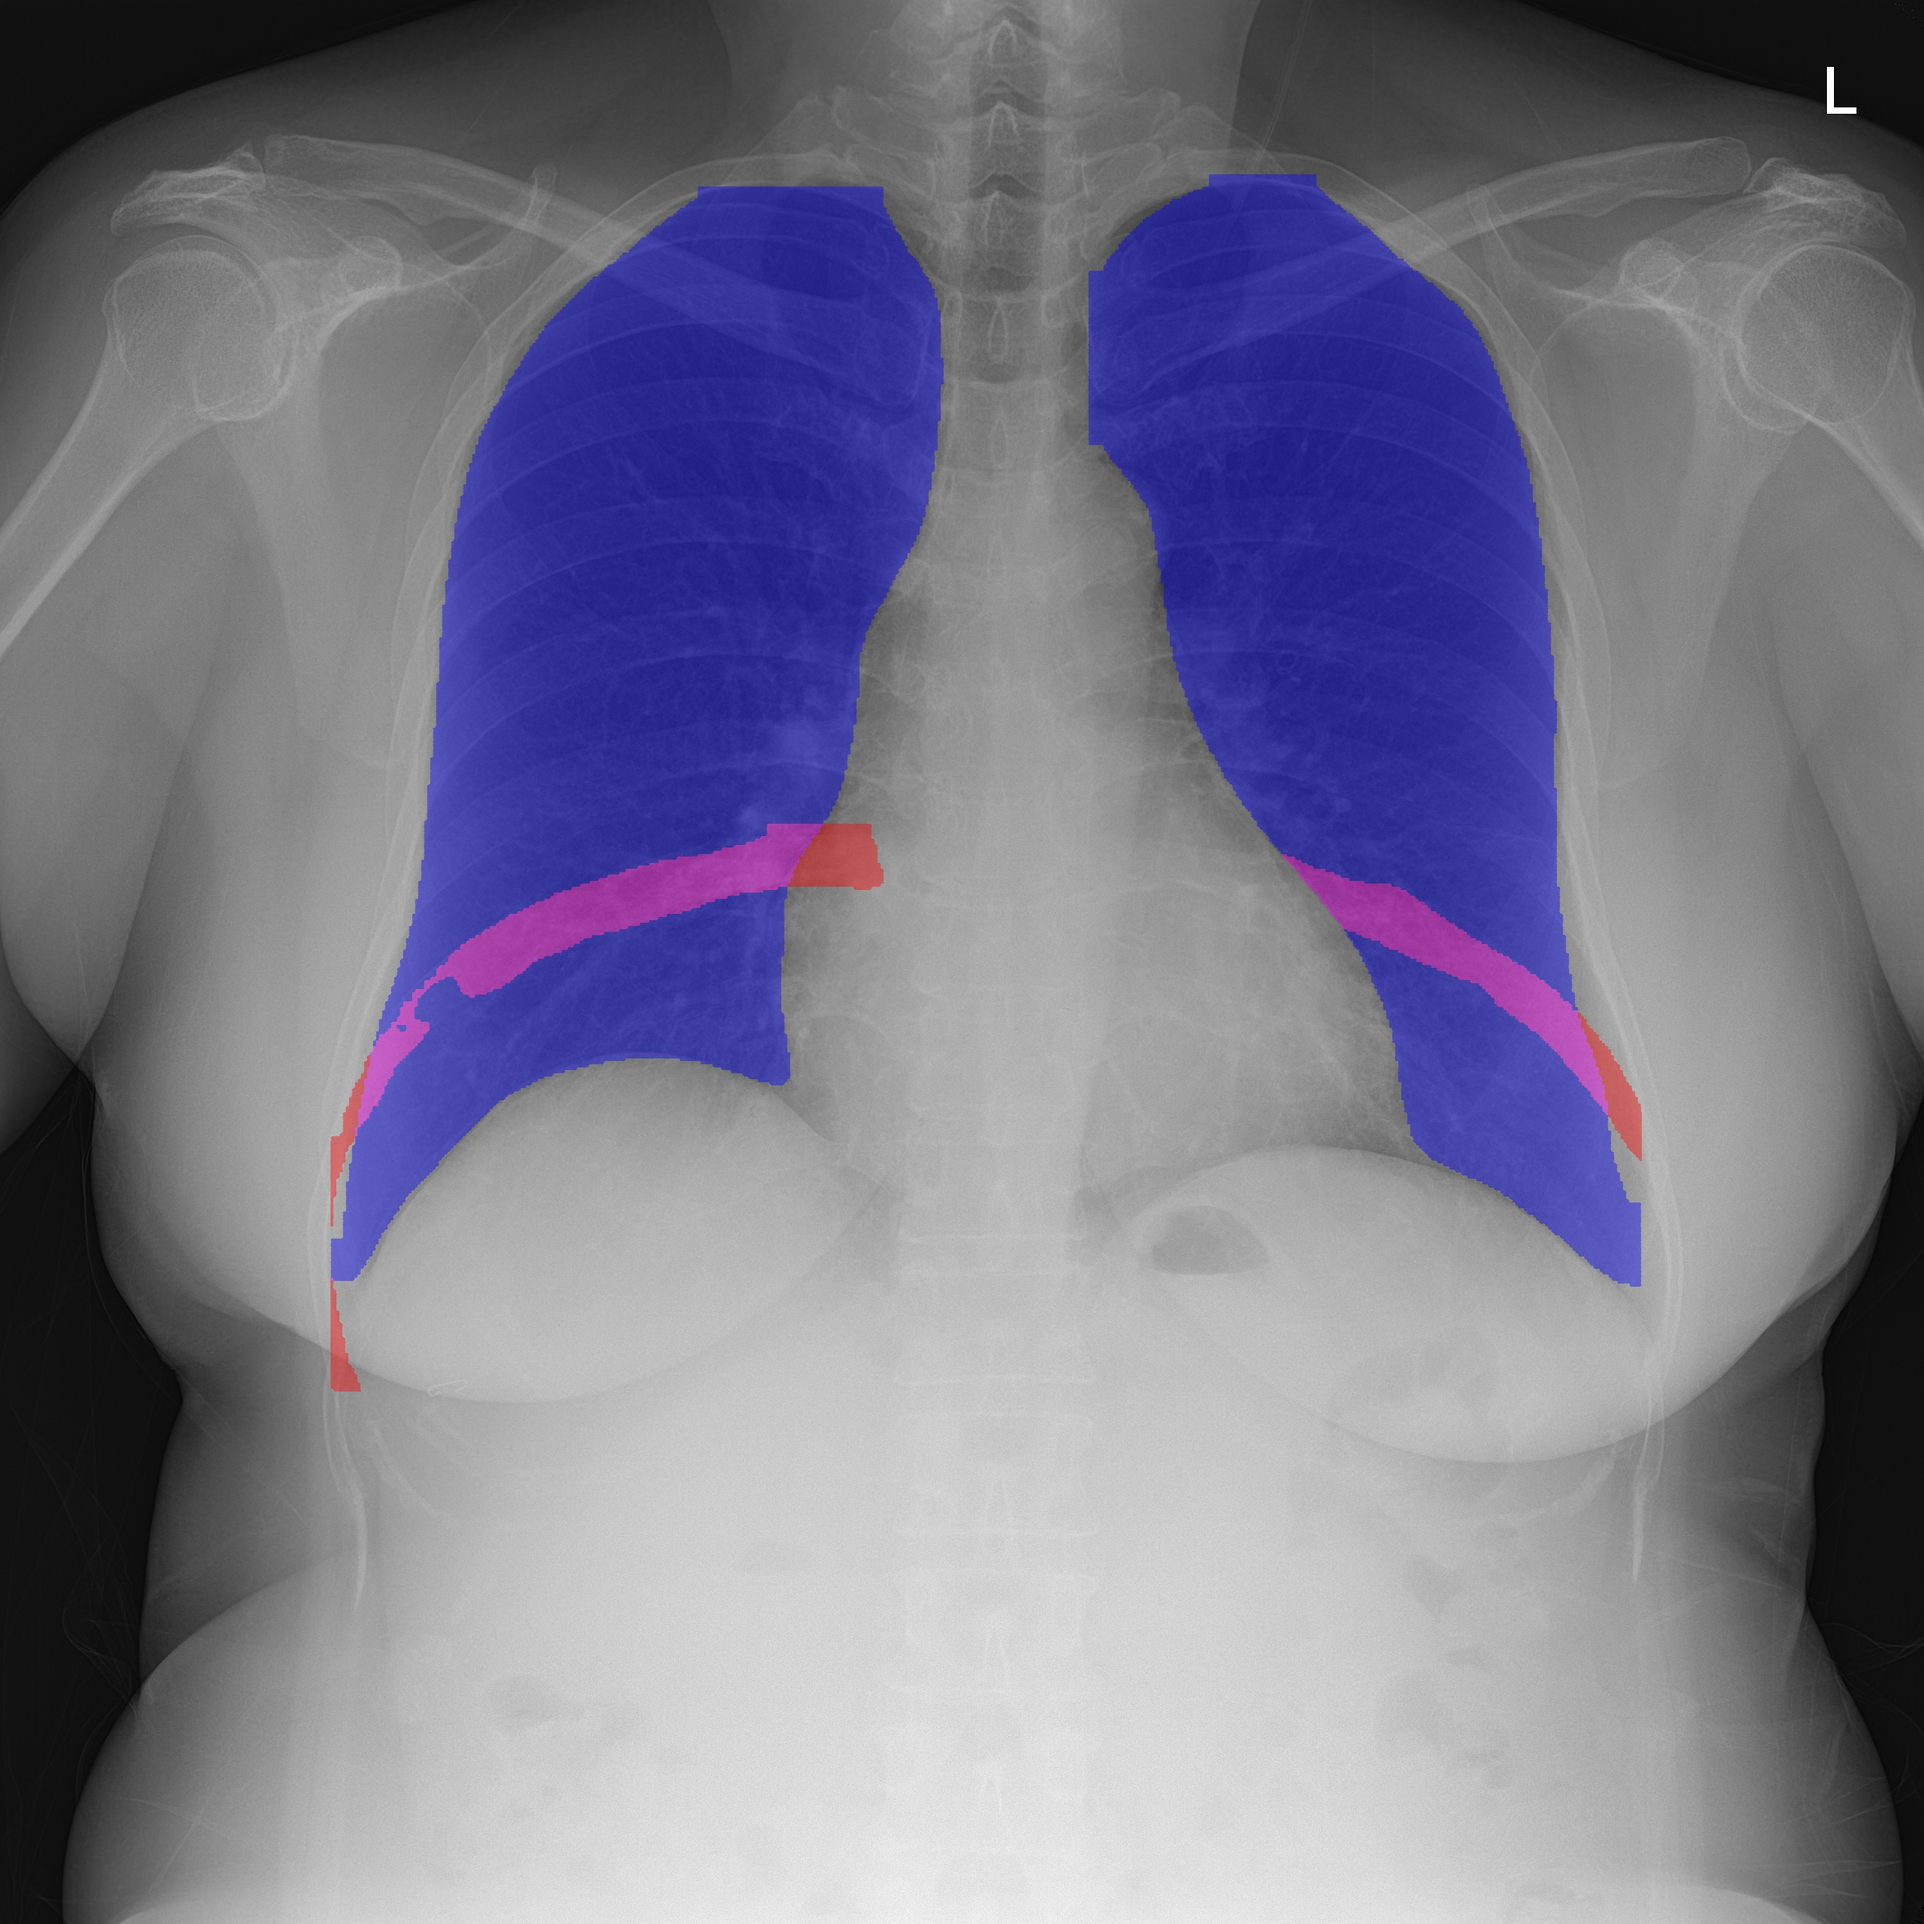
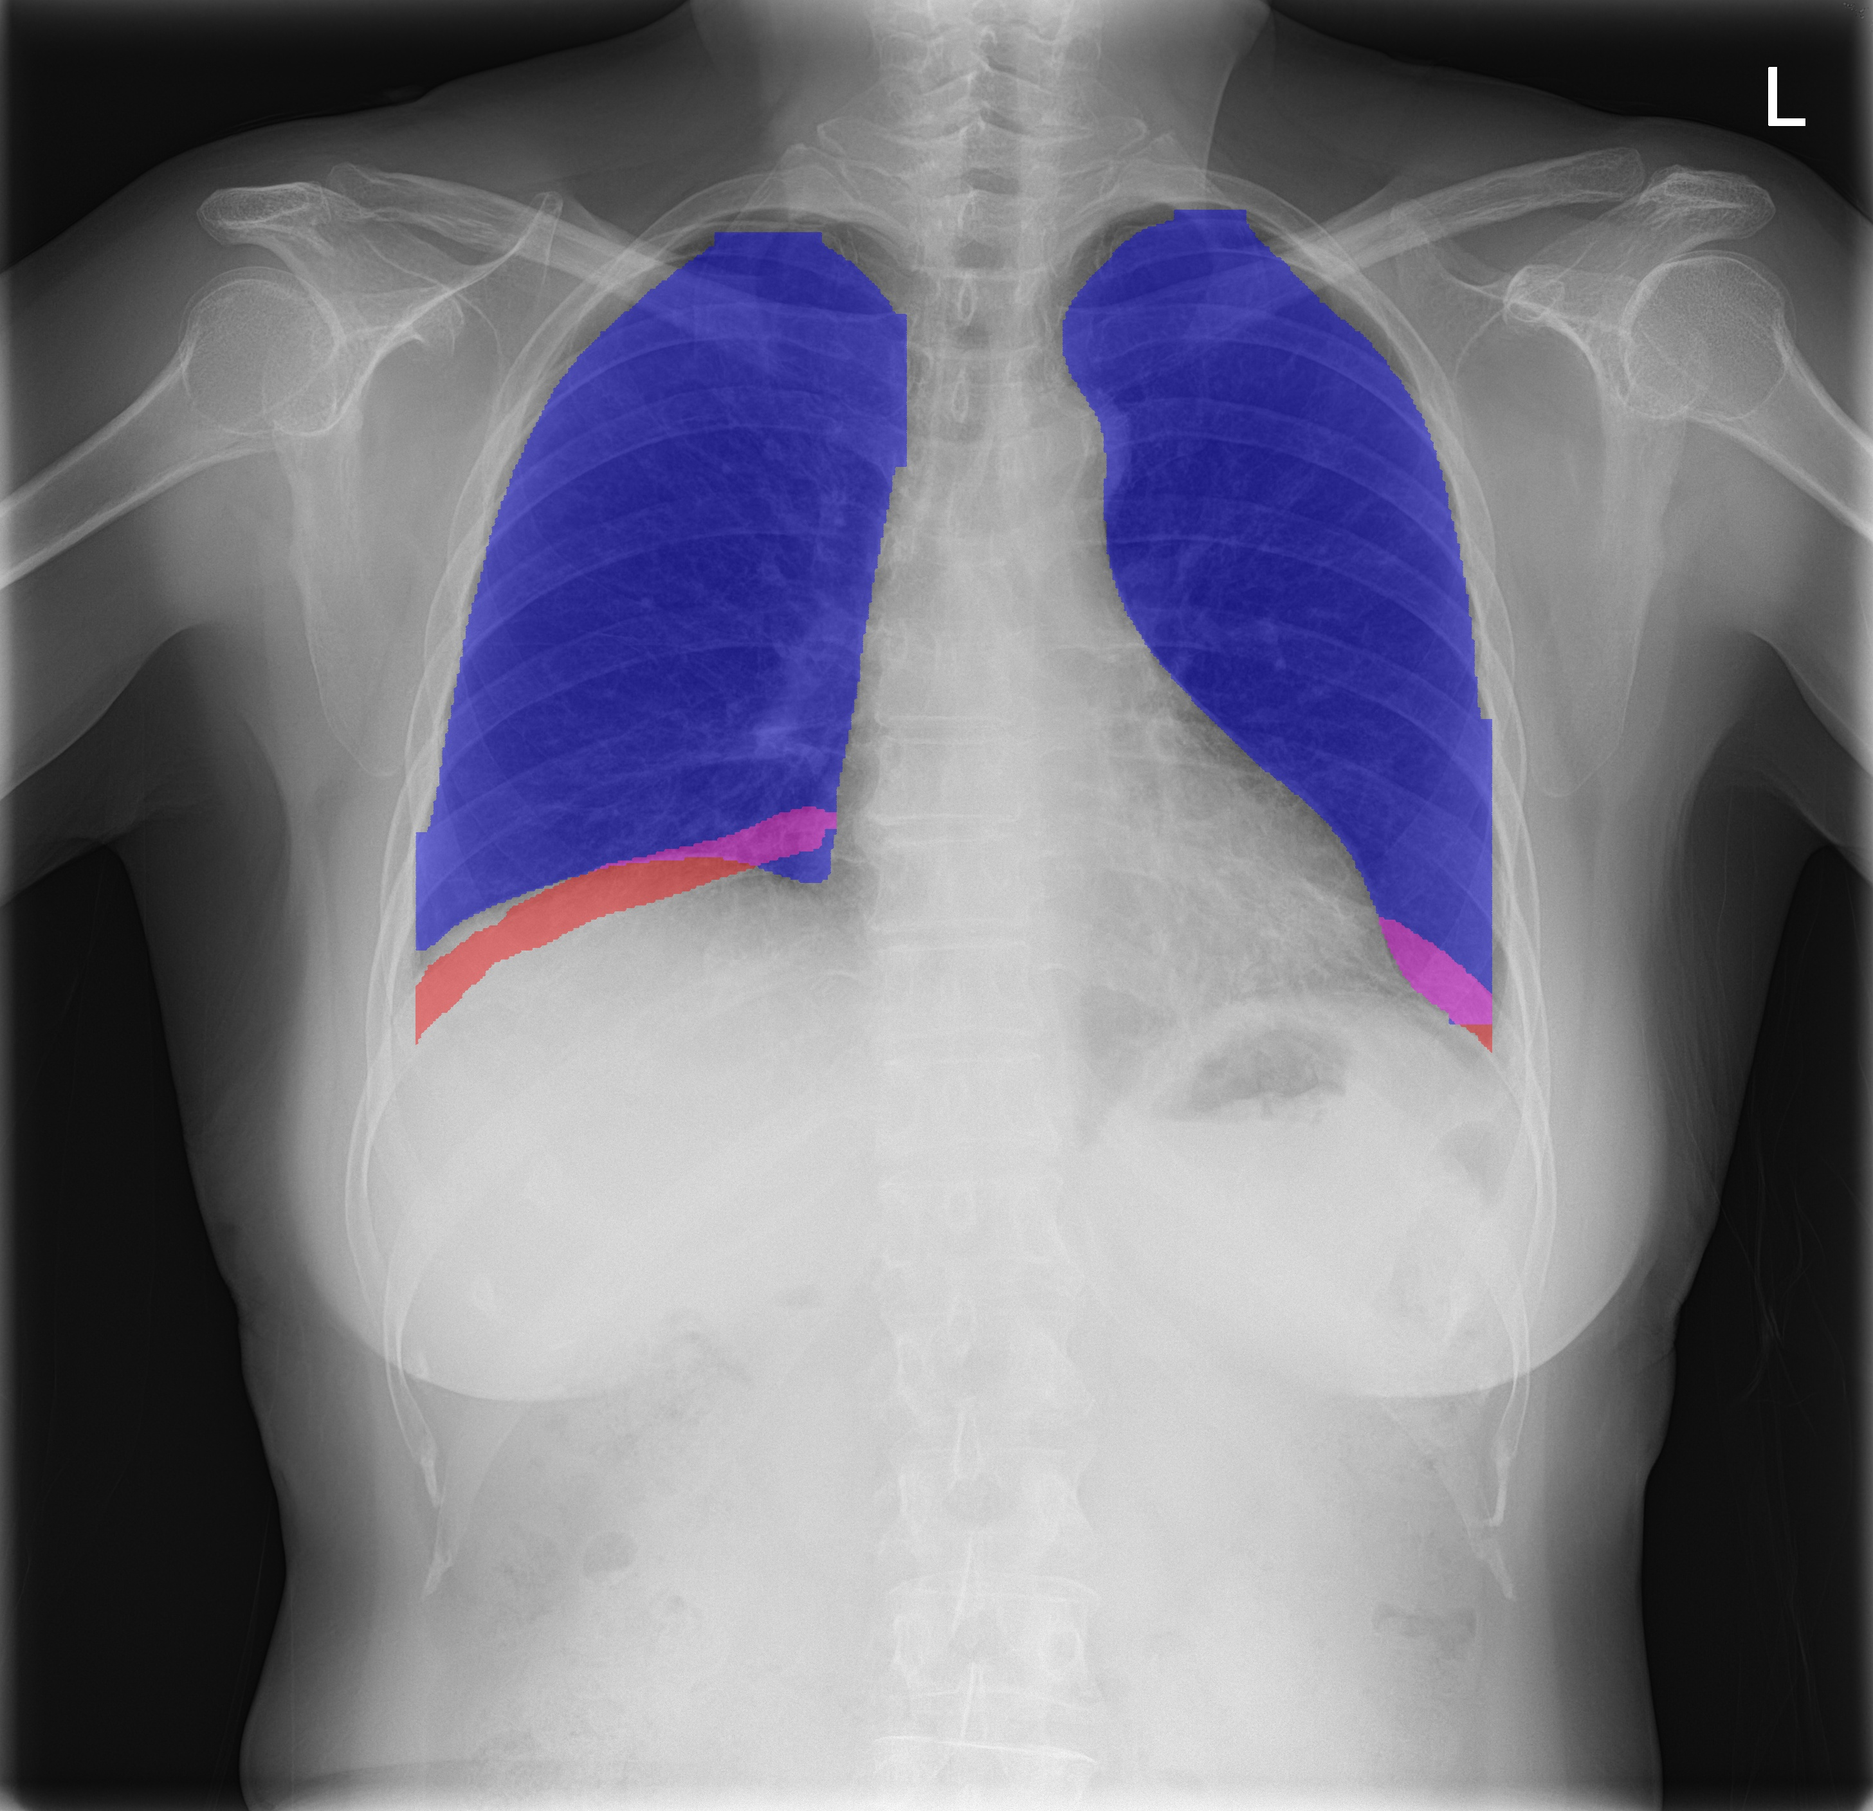
model py

diff --git a/output/present.html b/output/present.html
@@ -1,0 +1,191 @@
+<!DOCTYPE html>
+<html lang="th">
+<head>
+<meta charset="utf-8">
+<meta name="viewport" content="width=device-width, initial-scale=1">
+<title>สรุปผลการทดสอบโมเดล R9 / L9</title>
+<style>
+  *{box-sizing:border-box}
+  body{
+    margin:0;
+    font-family:Arial,Helvetica,sans-serif;
+    background:#f5f7fb;
+    color:#172033;
+  }
+  .page{
+    max-width:920px;
+    margin:40px auto;
+    padding:0 20px;
+  }
+  .card{
+    background:#fff;
+    border-radius:18px;
+    padding:28px;
+    box-shadow:0 10px 30px rgba(0,0,0,.07);
+    margin-bottom:18px;
+  }
+  h1{
+    margin:0 0 8px;
+    font-size:30px;
+  }
+  .sub{
+    color:#667085;
+    margin:0;
+  }
+  .metrics{
+    display:grid;
+    grid-template-columns:repeat(4,1fr);
+    gap:12px;
+    margin-top:22px;
+  }
+  .metric{
+    background:#f8fafc;
+    border:1px solid #e5e7eb;
+    border-radius:14px;
+    padding:18px;
+    text-align:center;
+  }
+  .metric strong{
+    display:block;
+    font-size:30px;
+    color:#2563eb;
+  }
+  .metric span{
+    font-size:13px;
+    color:#667085;
+  }
+  h2{
+    font-size:20px;
+    margin:0 0 12px;
+  }
+  p{
+    line-height:1.7;
+    margin:8px 0;
+  }
+  .highlight{
+    background:#eff6ff;
+    border-left:4px solid #2563eb;
+    padding:14px 16px;
+    border-radius:10px;
+  }
+  .evidence{
+    background:#f9fafb;
+    border:1px solid #e5e7eb;
+    border-radius:12px;
+    padding:16px;
+    font-family:Consolas,monospace;
+    font-size:14px;
+    line-height:1.7;
+  }
+  .good{color:#15803d;font-weight:700}
+  .warn{color:#b45309;font-weight:700}
+  .footer{
+    color:#667085;
+    font-size:13px;
+    text-align:center;
+    margin-top:12px;
+  }
+  @media(max-width:760px){
+    .metrics{grid-template-columns:repeat(2,1fr)}
+  }
+  @media(max-width:460px){
+    .metrics{grid-template-columns:1fr}
+  }
+</style>
+</head>
+<body>
+<div class="page">
+
+  <div class="card">
+    <h1>สรุปผลการทดสอบโมเดลตรวจ R9 / L9</h1>
+    <p class="sub">ประเมินจากภาพ X-ray จำนวน 100 ภาพ แบ่งเป็น FULL 50 ภาพ และ NOT FULL 50 ภาพ</p>
+
+    <div class="metrics">
+      <div class="metric">
+        <strong>87%</strong>
+        <span>ความแม่นยำรวม</span>
+      </div>
+      <div class="metric">
+        <strong>84%</strong>
+        <span>FULL</span>
+      </div>
+      <div class="metric">
+        <strong>90%</strong>
+        <span>NOT FULL</span>
+      </div>
+      <div class="metric">
+        <strong>90.24%</strong>
+        <span>เมื่อตัด Low Conf ออก</span>
+      </div>
+    </div>
+  </div>
+
+  <div class="card">
+    <h2>ภาพรวมประสิทธิภาพของโมเดล</h2>
+    <p>
+      โมเดลสามารถจำแนกภาพได้ถูกต้อง <span class="good">87 จาก 100 ภาพ</span>
+      โดยทำได้ดีในกลุ่ม NOT FULL ที่ความแม่นยำ 90% และกลุ่ม FULL ที่ 84%
+    </p>
+    <p>
+      พบภาพที่มี confidence ต่ำกว่า 0.89 จำนวน 18 ภาพ
+      และเมื่อไม่นำภาพกลุ่มนี้มาคำนวณ ความแม่นยำเพิ่มเป็น
+      <span class="good">90.24%</span>
+    </p>
+
+    <div class="highlight">
+      สรุปคือ โมเดลมีประสิทธิภาพดีพอสำหรับช่วยคัดกรองเบื้องต้น
+      และควรส่งภาพที่มี confidence ต่ำไปตรวจซ้ำ แทนการให้ระบบตัดสินอัตโนมัติ
+    </div>
+  </div>
+
+  <div class="card">
+    <h2>หลักฐานจากผลทดสอบ</h2>
+    <div class="evidence">
+FULL folder: PASS 42 from 50<br>
+FULL accuracy: 84.00%<br><br>
+
+NOT FULL folder: FAIL 45 from 50<br>
+NOT FULL accuracy: 90.00%<br><br>
+
+OVERALL SUCCESS: 87 from 100<br>
+OVERALL ACCURACY: 87.00%<br>
+LOW CONF: 18%<br>
+OVERALL WITHOUT LOW CONF: 90.24%
+    </div>
+  </div>
+
+  <div class="card">
+    <h2>ประสิทธิภาพของแอป</h2>
+    <p>
+      แอปสามารถรับภาพ X-ray แล้วแสดงผลการวิเคราะห์ได้ทั้ง
+      <b>PASS / FAIL</b>, ค่า overlap และค่า confidence ของ R9 กับ L9
+    </p>
+    <p>
+      นอกจากนี้ยังสามารถระบุกรณี <span class="warn">Low Confidence</span>
+      เพื่อช่วยให้ผู้ใช้รู้ว่าภาพใดควรตรวจสอบซ้ำ
+    </p>
+  </div>
+
+  <div class="card">
+    <h3>สาเหตุของผลทำนายผิด</h3>
+<p>
+  ผลทำนายที่ผิดส่วนหนึ่งเกิดจากโมเดลยังตรวจจับตำแหน่งซี่โครงได้ไม่แม่นยำ
+  เนื่องจากปริมาณ Dataset สำหรับฝึกโมเดลยังมีจำกัด ทำให้บางภาพได้ Mask
+  ของซี่โครงที่ผิดรูปหรือมีส่วนเกิน
+</p>
+<p>
+  อีกสาเหตุหนึ่งคือ ในบางภาพขอบปอดด้านในมีลักษณะเว้าหรือหักมุมมาก
+  ทำให้ระบบตัดส่วนของซี่โครงที่เกินเข้ามาด้านในปอดออกได้ไม่ครบถ้วน
+  จึงส่งผลต่อค่า Overlap และผลการตัดสิน PASS หรือ FAIL
+</p>
+  </div>
+
+  <div class="footer">
+    สรุปจาก evaluation_result.txt และข้อมูล confidence ของโมเดล
+  </div>
+
+  
+
+</div>
+</body>
+</html>

diff --git a/output/main.py b/output/main.py
@@ -1,0 +1,64 @@
+from ultralytics import YOLO
+
+if __name__ == "__main__":
+    model = YOLO("yolo11m-seg.pt")
+
+    model.train(
+        data="dataset/dataset.yaml",
+        epochs=120,
+        imgsz=640,
+        device=0,
+        workers=4,
+        batch=8,
+
+        # =========================
+        # Augmentation (X-ray ribs)
+        # =========================
+        mosaic=0.05,         # ต่ำมาก (กัน anatomy เพี้ยน)
+        mixup=0.0,           # ปิด
+        fliplr=0.0,          # ห้าม flip ซ้ายขวา
+        flipud=0.0,
+
+        degrees=5.0,         # หมุนเล็กน้อย
+        translate=0.05,      # ขยับนิดเดียว
+        scale=0.1,           # scale เบา ๆ
+        shear=0.0,
+        perspective=0.0,
+
+        hsv_h=0.0,           # grayscale → ปิด
+        hsv_s=0.0,
+        hsv_v=0.2,           # ปรับความสว่างเล็กน้อย (เหมือน exposure)
+
+        # =========================
+        # Regularization
+        # =========================
+        erasing=0.1,         # random erasing เบามาก (noise detector)
+        close_mosaic=10,     # ปิด mosaic ช่วงท้าย
+
+        # =========================
+        # Optimizer & LR
+        # =========================
+        optimizer="AdamW",
+        lr0=1e-3,
+        lrf=1e-2,
+        weight_decay=5e-4,
+        momentum=0.9,
+
+        # =========================
+        # Segmentation tuning
+        # =========================
+        box=7.5,
+        cls=0.5,
+        dfl=1.5,
+        overlap_mask=True,
+        mask_ratio=4,
+
+        # =========================
+        # Patient-level stability
+        # =========================
+        patience=30,         # early stop กัน overfit
+        cache=True,
+        pretrained=True,
+        verbose=False, 
+        amp=True
+    )
